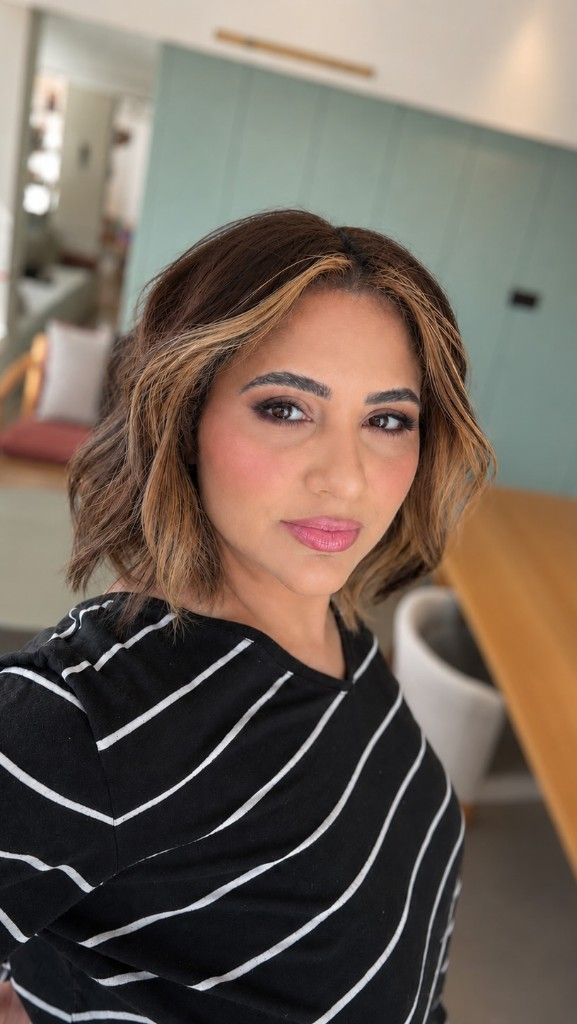
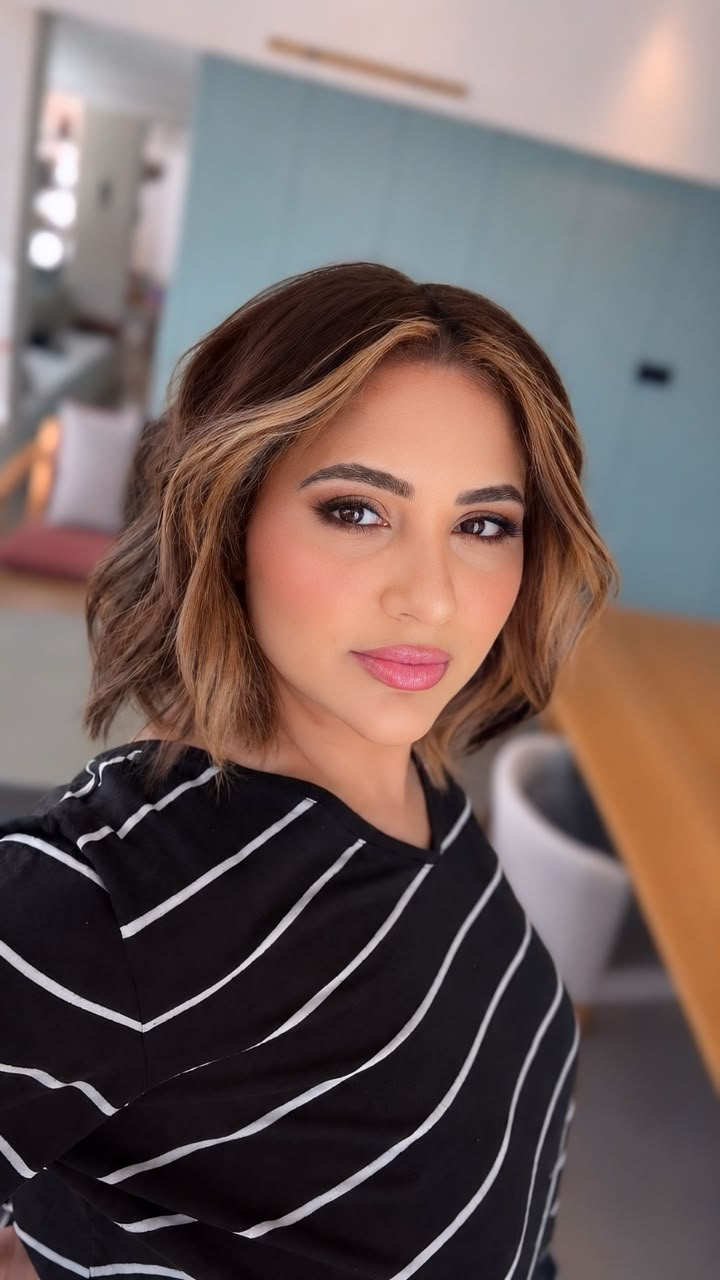
content: swap mismatched photos for real salon work
Replace lifestyle and product shots with Instagram work photos that match each service and gallery caption.

diff --git a/src/data/salonData.ts b/src/data/salonData.ts
@@ -89,7 +89,7 @@ export const SERVICES: ServiceItem[] = [
       "Acabamento com escova modelada e finalização",
       "Praticidade real no dia a dia da cliente"
     ],
-    image: "/images/portfolio/DYn5smJMlOY_0.jpg",
+    image: "/images/portfolio/DZ-dyD3O6Ok_0.jpg",
     tag: "Transformação",
     priceNote: "Avaliação Gratuita"
   },
@@ -119,7 +119,7 @@ export const SERVICES: ServiceItem[] = [
       "Livre de sulfatos, parabenos e conservantes químicos",
       "Toque aveludado, sedosidade e balanço imediato"
     ],
-    image: "/images/portfolio/DZ-dyD3O6Ok_0.jpg",
+    image: "/images/portfolio/DYn5smJMlOY_0.jpg",
     tag: "Terapia Capilar",
     priceNote: "Nutrição Intensa"
   },
@@ -134,7 +134,7 @@ export const SERVICES: ServiceItem[] = [
       "Possibilidade de prender e fazer qualquer penteado",
       "Manutenção segura a cada 60-90 dias"
     ],
-    image: "/images/portfolio/DbPTPrDsolc_0.jpg",
+    image: "/images/portfolio/DaeKlP6s6X6_0.jpg",
     tag: "Volume & Comprimento",
     priceNote: "Sob Consulta"
   }
@@ -159,7 +159,7 @@ export const PORTFOLIO: PortfolioItem[] = [
   },
   {
     id: "p3",
-    image: "/images/portfolio/DcMn5JWR9pq_0.jpg",
+    image: "/images/portfolio/DCcpiaZvrbI_2.jpg",
     title: "Makeup Glam & Pele Glow",
     category: "makeup",
     caption: "Produção de maquiagem para evento em Jurerê Internacional com acabamento impecável.",
@@ -199,10 +199,10 @@ export const PORTFOLIO: PortfolioItem[] = [
   },
   {
     id: "p8",
-    image: "/images/portfolio/DK5xaAgMjTT_0.jpg",
+    image: "/images/portfolio/DYn5smJMlOY_0.jpg",
     title: "Spa Capilar com Vapor de Ozônio",
     category: "tratamentos",
-    caption: "Recuperação intensiva dos fios de dentro para fora com tecnologia de ozonioterapia.",
+    caption: "Fios com brilho, maciez e movimento após protocolo de nutrição e recuperação profunda.",
     location: "Florianópolis"
   },
   {
@@ -223,18 +223,18 @@ export const PORTFOLIO: PortfolioItem[] = [
   },
   {
     id: "p11",
-    image: "/images/portfolio/DZ-dyD3O6Ok_0.jpg",
+    image: "/images/portfolio/DQ6jwdcDsiD_0.jpg",
     title: "Loiro Tendência Iluminado",
     category: "mechas",
-    caption: "Nuance personalizada que valoriza a elegância e a juventude do rosto.",
+    caption: "Loiro tendência com brilho, volume e camadas que iluminam o rosto sem marcar a raiz.",
     location: "Florianópolis"
   },
   {
     id: "p12",
-    image: "/images/portfolio/DWxLRiyjMSS_0.jpg",
+    image: "/images/portfolio/DZ-dyD3O6Ok_0.jpg",
     title: "Corte em Camadas com Balanço",
     category: "cortes",
-    caption: "Recriação de cortes clássicos com releitura sofisticada e contemporânea.",
+    caption: "Corte butterfly em camadas com volume, movimento e caimento que valoriza o rosto.",
     location: "Florianópolis"
   },
   {
@@ -247,7 +247,7 @@ export const PORTFOLIO: PortfolioItem[] = [
   },
   {
     id: "p14",
-    image: "/images/portfolio/DWSjJyLDPER_0.jpg",
+    image: "/images/portfolio/DWKWBj9h4uM_0.jpg",
     title: "Beleza Expressiva & Autoral",
     category: "makeup",
     caption: "Makeup autoral para mulheres empoderadas que buscam destaque com elegância.",
@@ -255,10 +255,10 @@ export const PORTFOLIO: PortfolioItem[] = [
   },
   {
     id: "p15",
-    image: "/images/portfolio/DVlRngUjpCi_0.jpg",
+    image: "/images/portfolio/DbPTPrDsolc_0.jpg",
     title: "Finalização & Textura Premium",
     category: "tratamentos",
-    caption: "Acabamento sedoso após cronograma capilar nutritivo e hidratação de luxo.",
+    caption: "Acabamento sedoso com brilho tridimensional após cronograma capilar e hidratação de luxo.",
     location: "Florianópolis"
   },
   {
